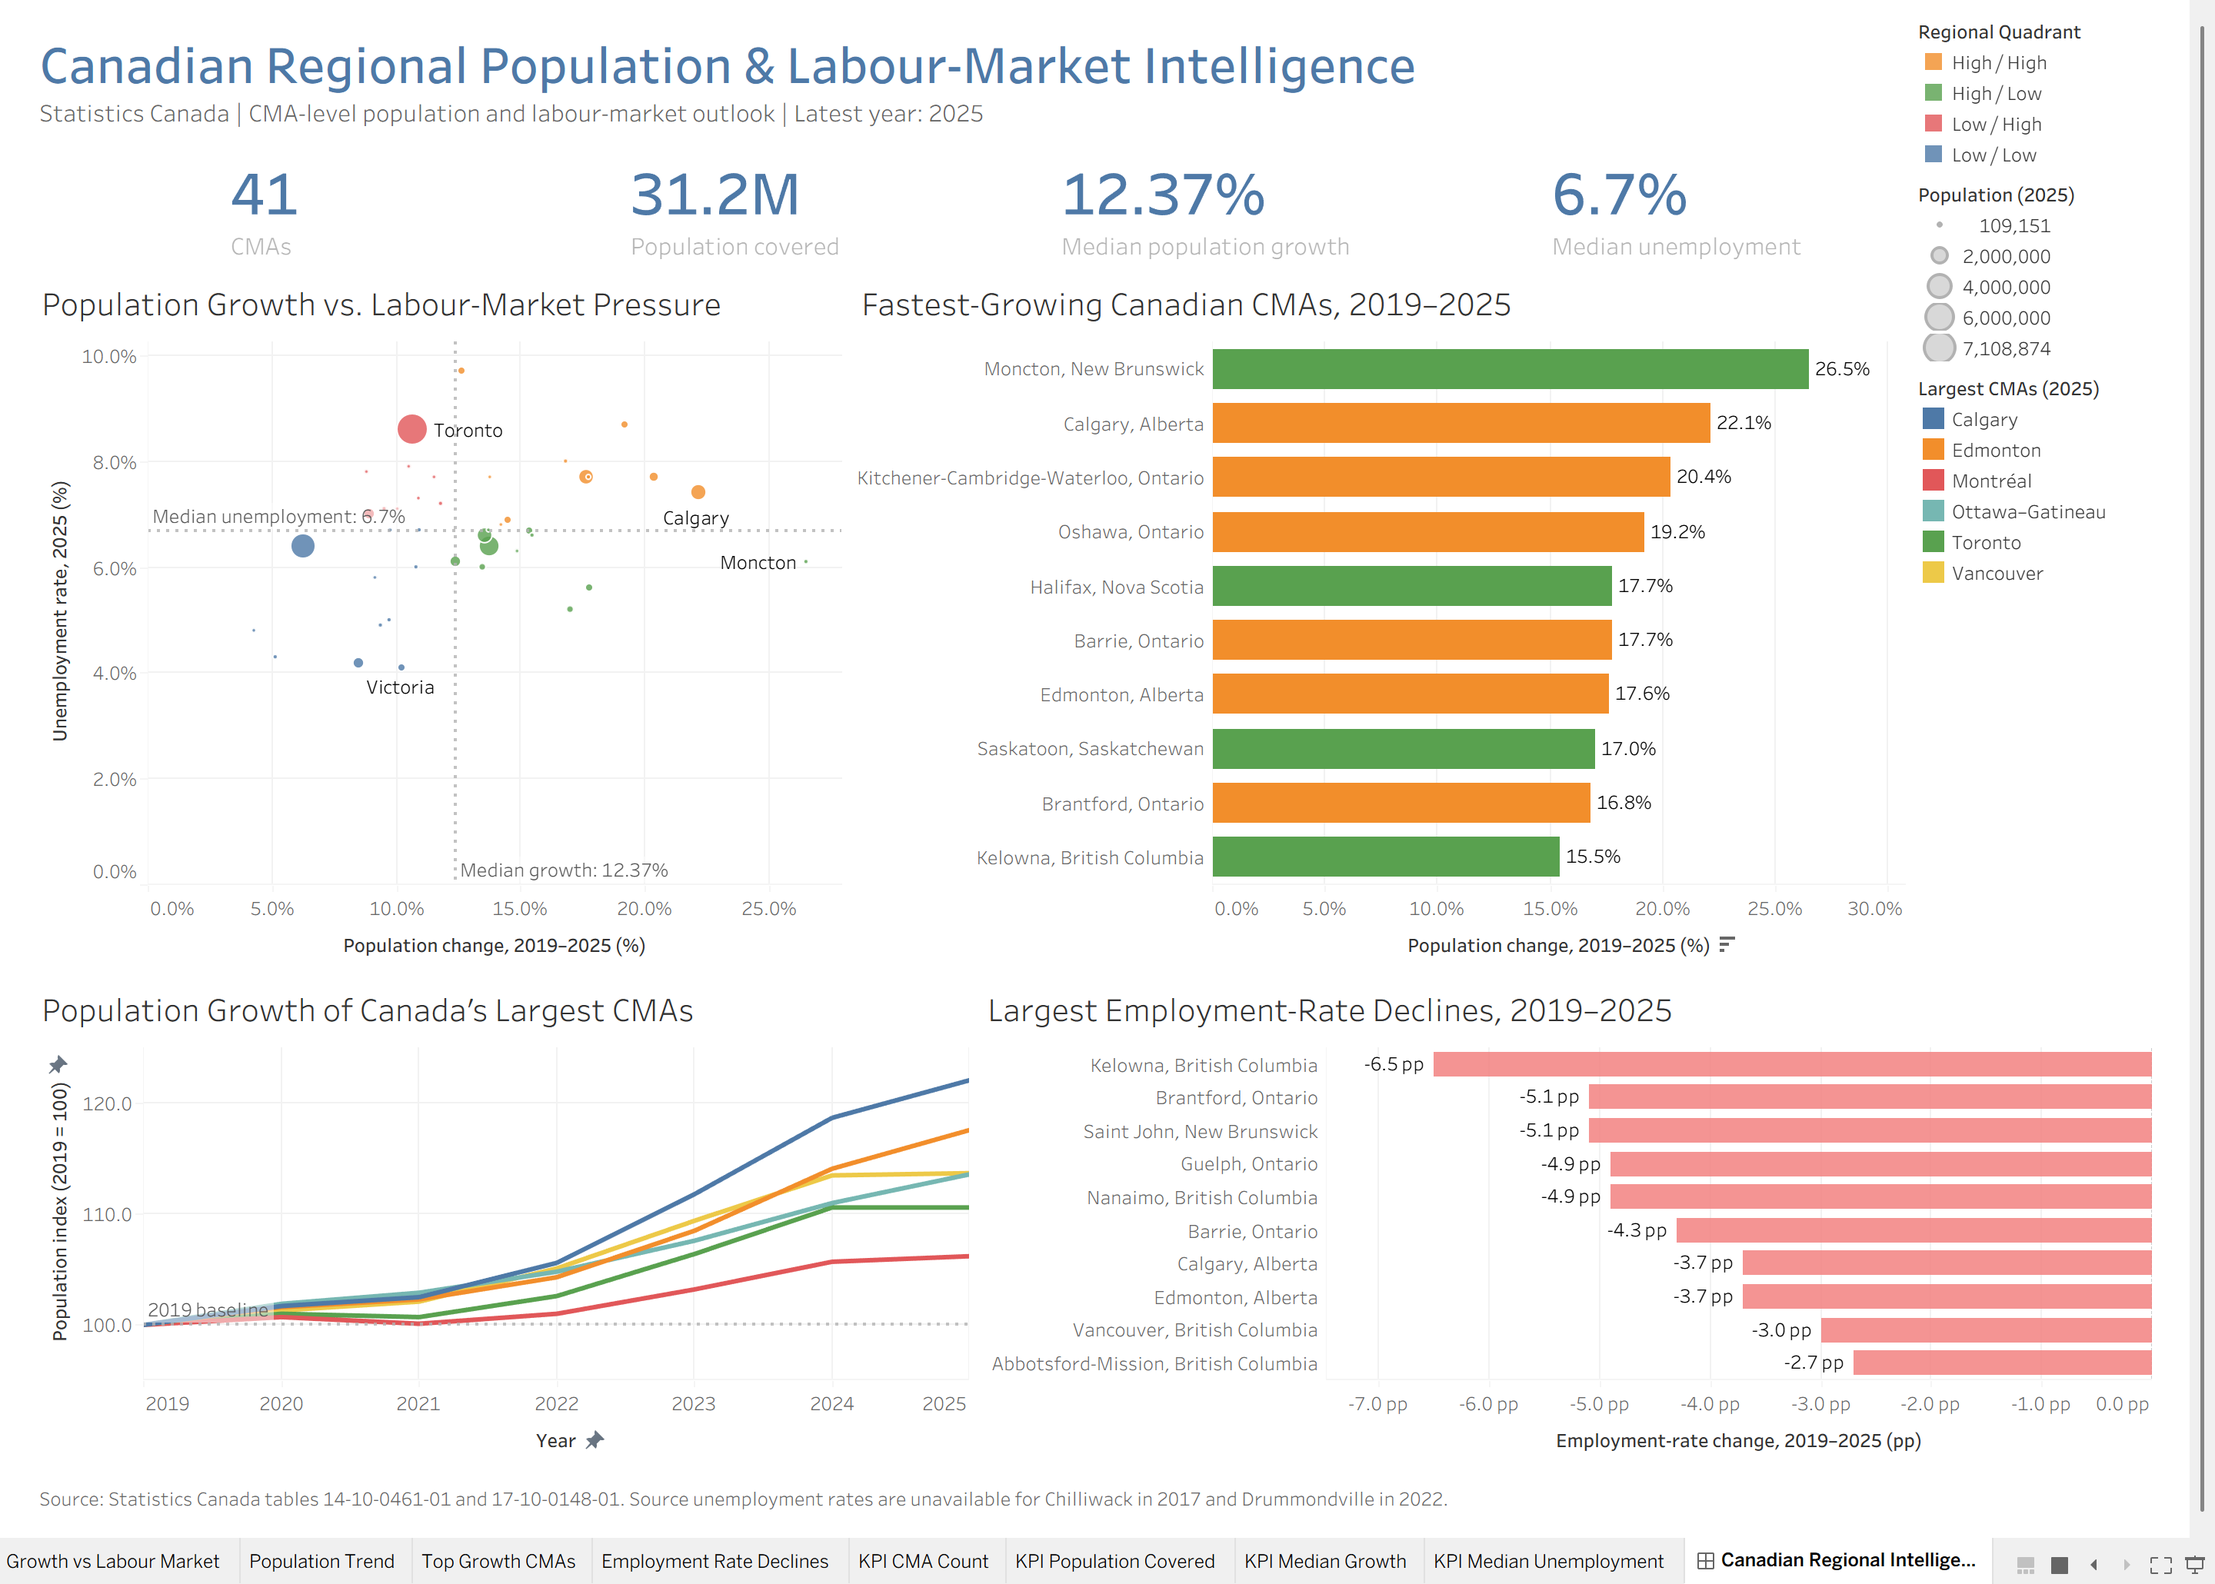
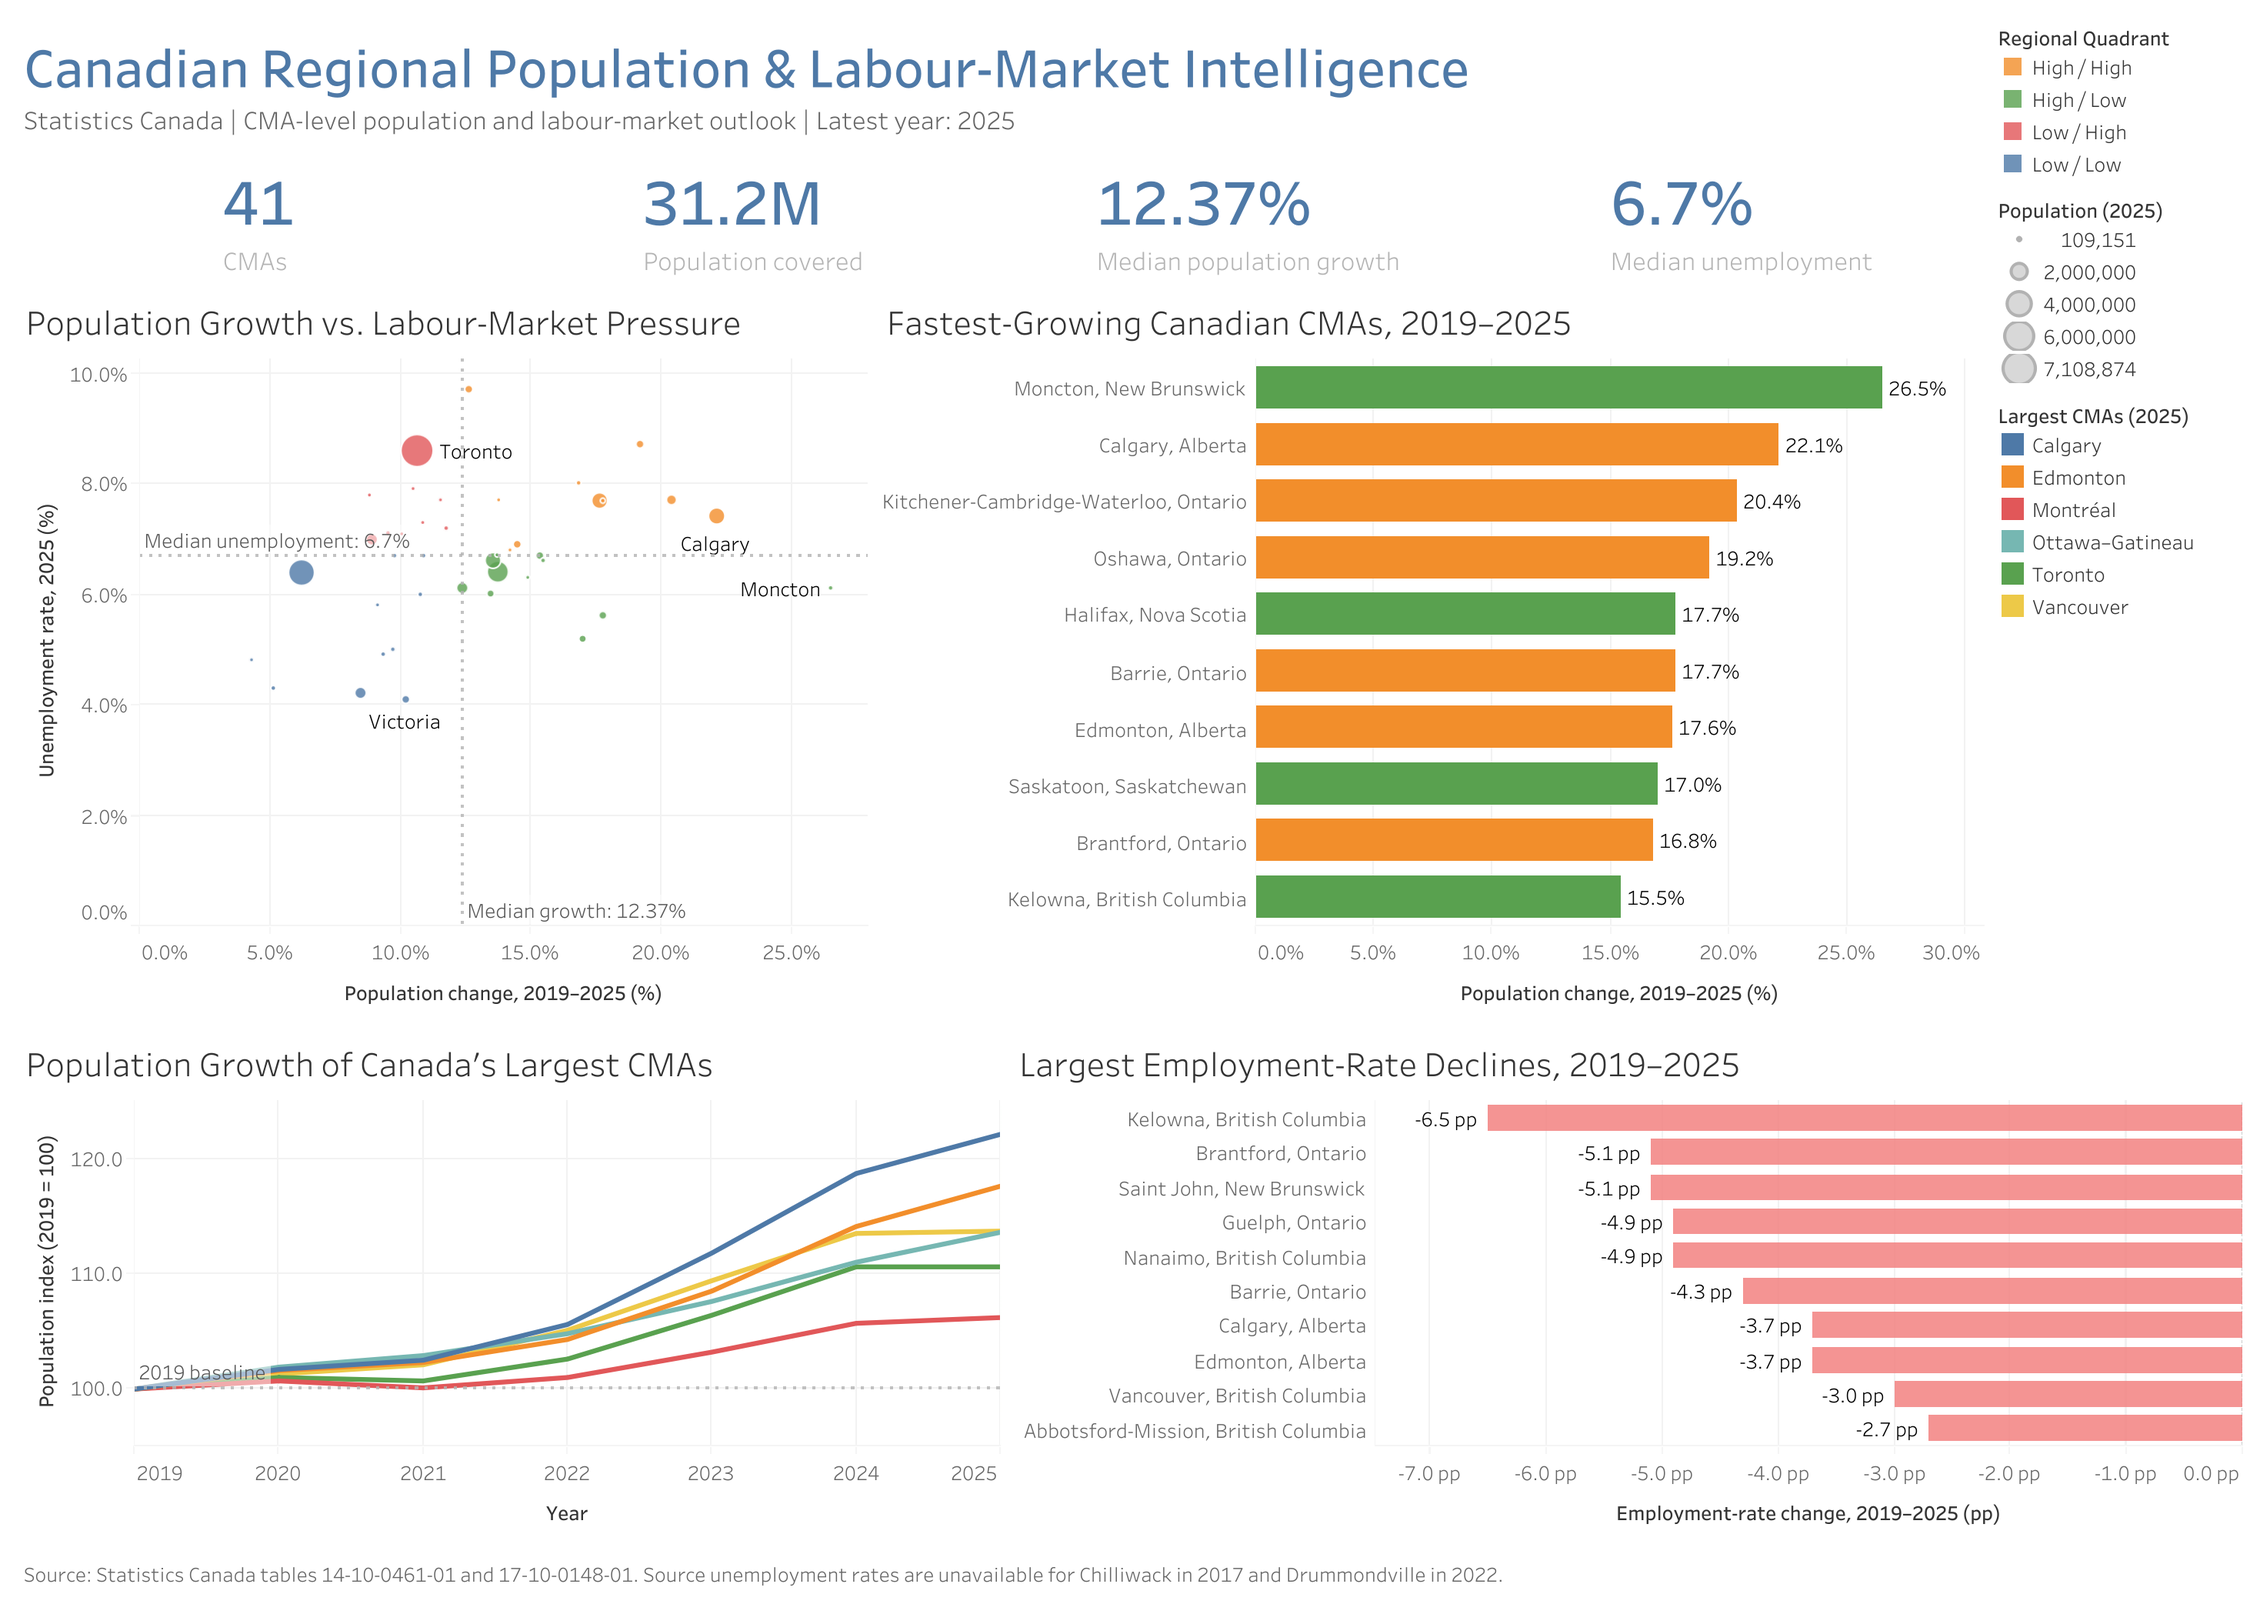
Link Tableau Public dashboard

diff --git a/README.md b/README.md
@@ -8,9 +8,13 @@ The MVP demonstrates event-driven ingestion on Azure, immutable and idempotent l
 
 ## Regional intelligence dashboard
 
-[![Canadian regional population and labour-market dashboard](analytics/tableau/canadian_regional_intelligence.png)](analytics/tableau/canadian_regional_intelligence.png)
+**[▶ Live interactive dashboard](https://public.tableau.com/app/profile/ruizhaoca/viz/canadian_regional_intelligence/CanadianRegionalIntelligence)**
 
-[Open the full-resolution dashboard](analytics/tableau/canadian_regional_intelligence.png) | [Download the packaged Tableau workbook](analytics/tableau/canadian_regional_intelligence.twbx)
+[![Canadian regional population and labour-market dashboard](analytics/tableau/canadian_regional_intelligence.png)](https://public.tableau.com/app/profile/ruizhaoca/viz/canadian_regional_intelligence/CanadianRegionalIntelligence)
+
+*Tableau dashboard connecting CMA population growth, current unemployment pressure, and employment-rate change across 41 Canadian metropolitan areas.*
+
+[Open the full-resolution image](analytics/tableau/canadian_regional_intelligence.png) | [Download the packaged Tableau workbook](analytics/tableau/canadian_regional_intelligence.twbx)
 
 The Tableau presentation layer consumes versioned snapshots exported from the published Snowflake MART; transformation and benchmarking logic remains in version-controlled SQL. The dashboard makes the engineering output decision-ready by comparing CMA population growth with current labour-market pressure and longer-term employment-rate change.
 

diff --git a/analytics/tableau/README.md b/analytics/tableau/README.md
@@ -16,6 +16,7 @@ The dashboard presents four KPIs and four analytical views: CMA growth versus
 labour-market pressure, the fastest-growing CMAs, indexed population growth for
 the six largest CMAs, and the largest employment-rate declines since 2019.
 
-The root README links to the static dashboard and packaged workbook. After the
-workbook is published to Tableau Public, the same dashboard image can link
-directly to its interactive public URL.
+The root README links to the
+[interactive Tableau Public view](https://public.tableau.com/app/profile/ruizhaoca/viz/canadian_regional_intelligence/CanadianRegionalIntelligence)
+through both a call-to-action and the dashboard image. It also retains direct
+access to the static image and packaged workbook for long-term portfolio evidence.
